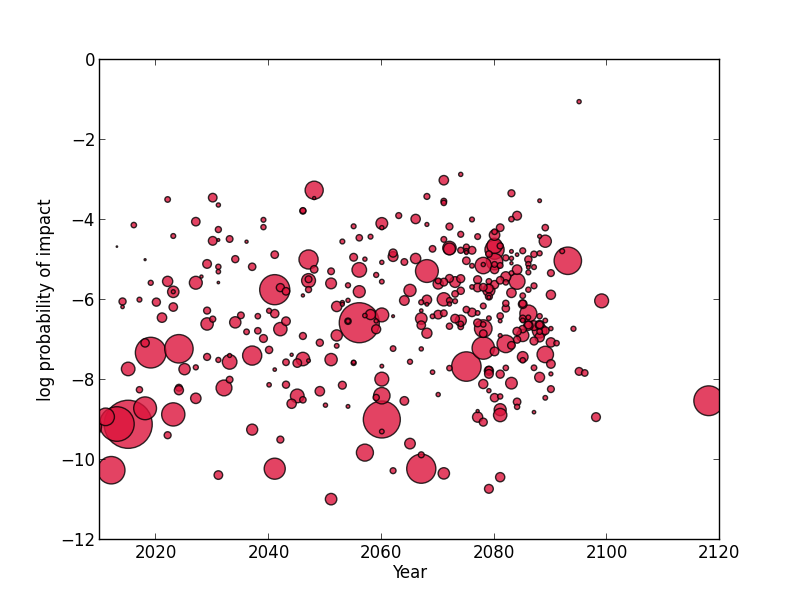
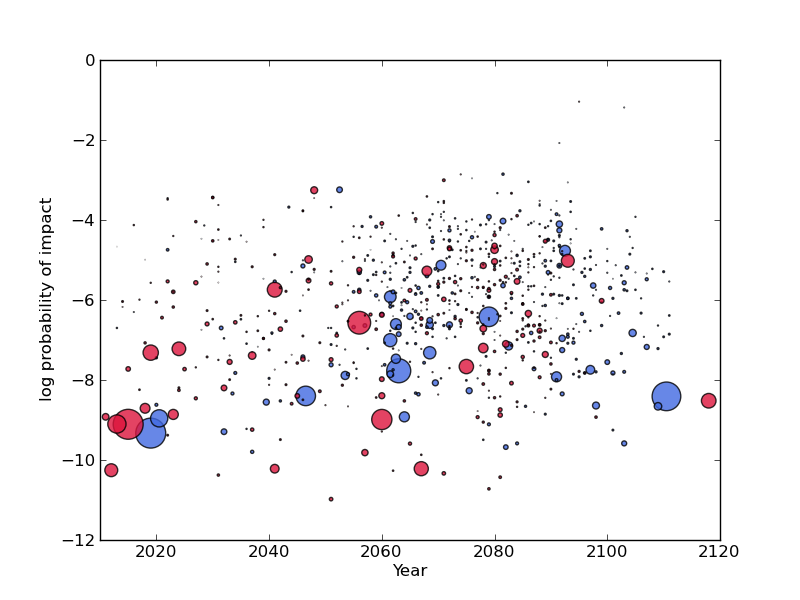
fixed axis labels

diff --git a/asteroids.py b/asteroids.py
@@ -14,7 +14,9 @@ impact_prob = np.genfromtxt("esa.csv", delimiter = ",", usecols=3, dtype="object
 
 print "Fetching size..."
 size = np.genfromtxt("esa.csv", delimiter = ",", usecols=1)
-
+size = size/2 #diameter to radius
+print "Fetching Palermo scale..."
+esa_palermo_scale = np.genfromtxt("esa.csv", delimiter = ",", usecols=4)
 print "Calculating prob value..."
 probs = []
 for prob in impact_prob:
@@ -40,7 +42,109 @@ plt.xlim(2010, 2120)
 p = plt.scatter(years, probs, c="Crimson", s=size, edgecolor='k', alpha=0.8)
 plt.xlabel("Year")
 plt.ylabel("log probability of impact")
-plt.savefig("probs.png")
+plt.savefig("esa_probs.png")
 
 
 print 'Sum of all probabilities:', np.sum(10**np.asarray(probs))
+
+
+#NASA image:
+
+date_range = np.genfromtxt("nasa.csv", delimiter = ",", dtype="object", usecols=1)
+impact_prob = np.genfromtxt("nasa.csv", delimiter = ",", usecols=3)
+diameter = np.genfromtxt("nasa.csv", delimiter = ",", usecols=6)
+palermo_scale =  np.genfromtxt("nasa.csv", delimiter = ",", usecols=7)
+#torino_scale =  np.genfromtxt("nasa.csv", delimiter = ",", usecols=9)
+
+diameter = diameter/2 #to radius
+
+print "NASA probabilities: ", np.sum(impact_prob)
+#print palermo_scale
+
+years_l = []
+years_u = []
+date_length = []
+years_mid = []
+
+#parsing dates
+for date in date_range:
+  date_l, date_u = string.split(date, '-')
+  date_l = float(date_l)
+  date_u = float(date_u)
+  date_length.append((date_u - date_l)/2)
+  if date_length[-1] > 0:
+	date_mid = date_l + date_length[-1]
+  elif date_length[-1] == 0:
+	date_mid = date_l
+  years_mid.append(date_mid)
+  years_l.append(date_l)
+  years_u.append(date_u)
+
+
+fig = plt.figure()
+ax = fig.add_subplot(111)
+plt.xlim(2010, 2120)
+#plt.scatter(years_mid, impact_prob, color="RoyalBlue", edgecolor="k", alpha=0.8)
+#plt.hist((np.log10(impact_prob)), bins=len(impact_prob))
+#err = plt.errorbar(years_mid, np.log10(impact_prob), xerr=date_length, c="k", linestyle='None', capsize=0)
+p = plt.scatter(years_mid, np.log10(impact_prob), c="RoyalBlue", s=(diameter*100)*np.sqrt(diameter*100), edgecolor='k', alpha=0.8)
+plt.xlabel("Year")
+p = plt.scatter(years, probs, c="Crimson", s=size/10*np.sqrt(size/10), edgecolor='k', alpha=0.8)
+plt.ylabel("log probability of impact")
+plt.savefig("probs.png")
+
+
+fig = plt.figure()
+ax = fig.add_subplot(111)
+plt.scatter(years_mid, np.log10(impact_prob), color="RoyalBlue", label="NASA impact prob", s=(diameter*100)*np.sqrt(diameter*100), edgecolor="k", alpha=0.8)
+plt.ylabel("log(P)")
+plt.xlabel("Year")
+plt.legend(loc="upper left", scatterpoints=1)
+#ax.text(2010, 0, "100 m")
+#ax.plot([2010, 0], [2010+((3/(4*math.pi))*100), 0])
+plt.savefig("nasa_probs.png")
+
+
+fig = plt.figure()
+ax = fig.add_subplot(111)
+plt.bar(years_mid, 10**palermo_scale, color="RoyalBlue", label="NASA Palermo scale")
+plt.bar(years,  10**esa_palermo_scale, color="Crimson", label="ESA Palermo scale"
+)
+
+plt.ylabel("Palermo scale P, linearised (10^P)")
+plt.xlabel("Year")
+plt.legend(loc="upper left")
+plt.savefig("nasa_esa_palermo.png")
+
+#cumulative probability
+
+#sorting by date:
+years = np.asarray(years)
+probs = np.asarray(probs)
+
+year_inds = np.argsort(years)
+prob_sorted = probs[year_inds]
+years_sorted = years[year_inds]
+
+fig = plt.figure()
+ax = fig.add_subplot(111)
+plt.xlim(2010, 2100)
+plt.bar(years_sorted, np.cumsum(10**prob_sorted) , color="Crimson", label="ESA cumulative probability"
+)
+print np.cumsum(10**prob_sorted), 
+plt.ylabel("Cumulative probability")
+plt.xlabel("Year")
+plt.legend(loc="upper left")
+plt.savefig("cum_prob.png")
+
+exit()
+
+import scipy.signal as signal
+
+f = np.linspace(5, 50, 45)
+pgram = signal.lombscargle(np.asarray(years, dtype = 'float'), np.asarray(size), f)
+
+fig = plt.figure()
+plt.plot(f, np.sqrt(4*(pgram/np.asarray(years).shape[0])))
+plt.savefig("lomb-scargle")
+plt.xlabel("Frequency, years")
